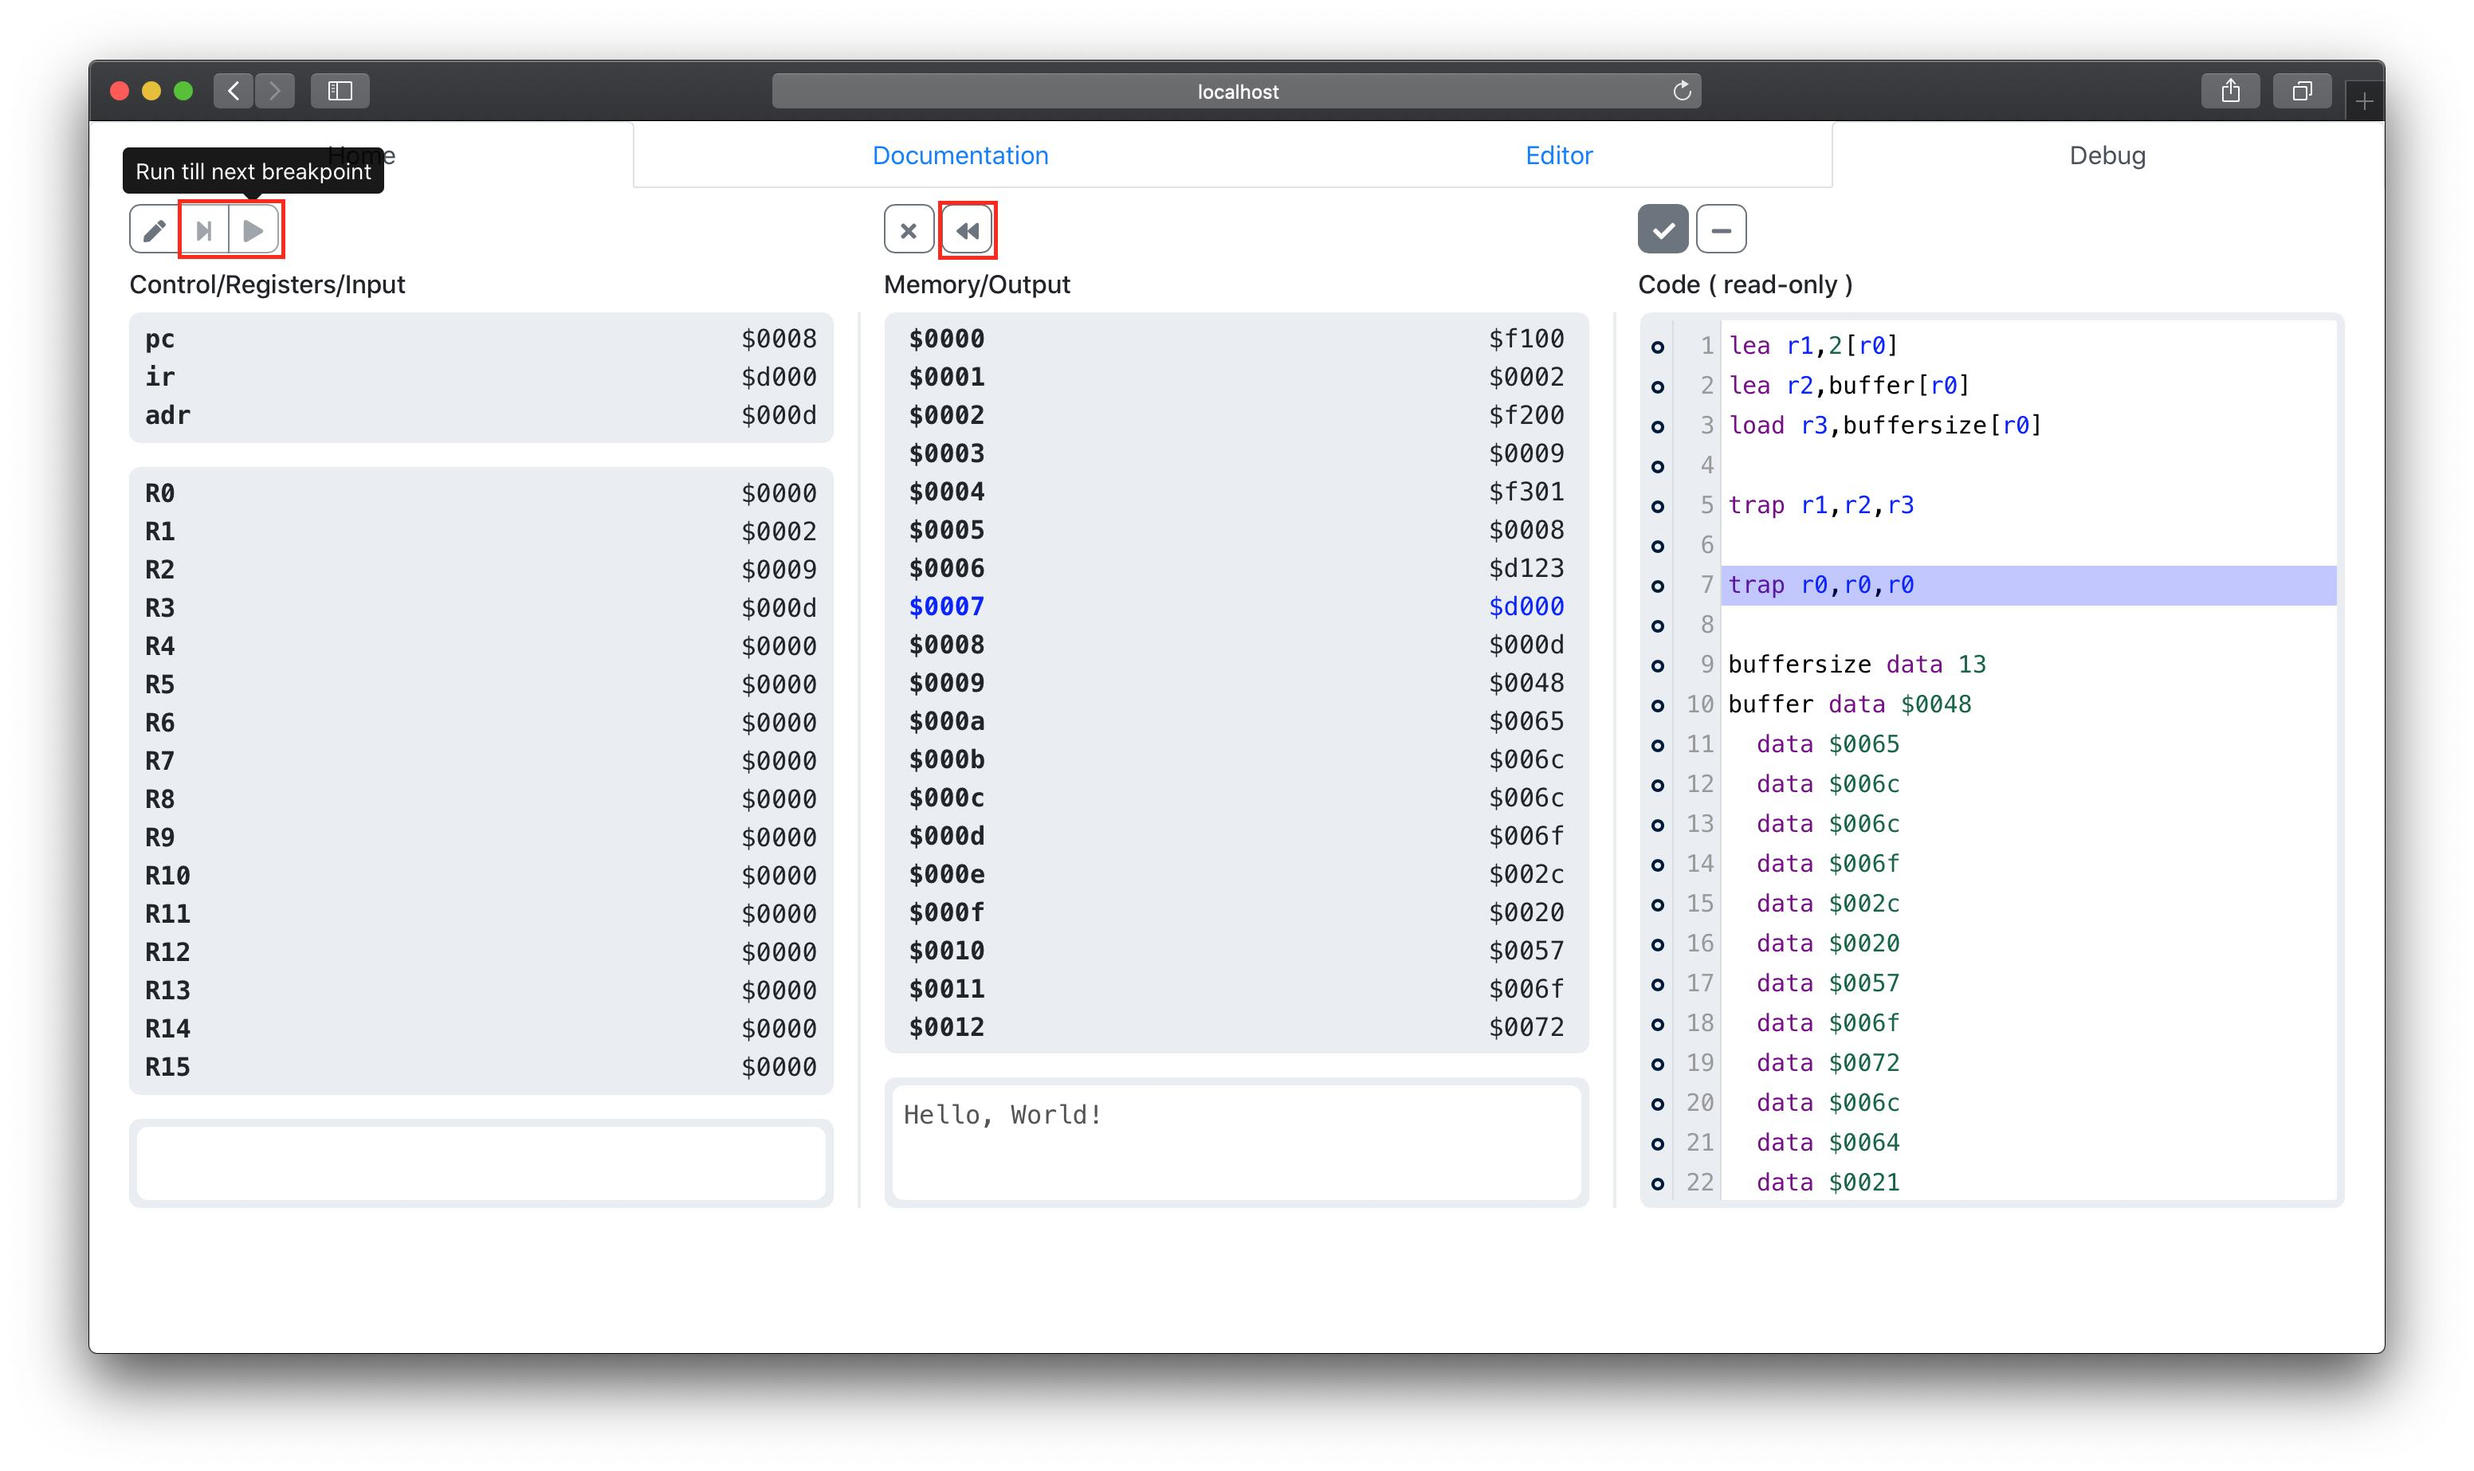
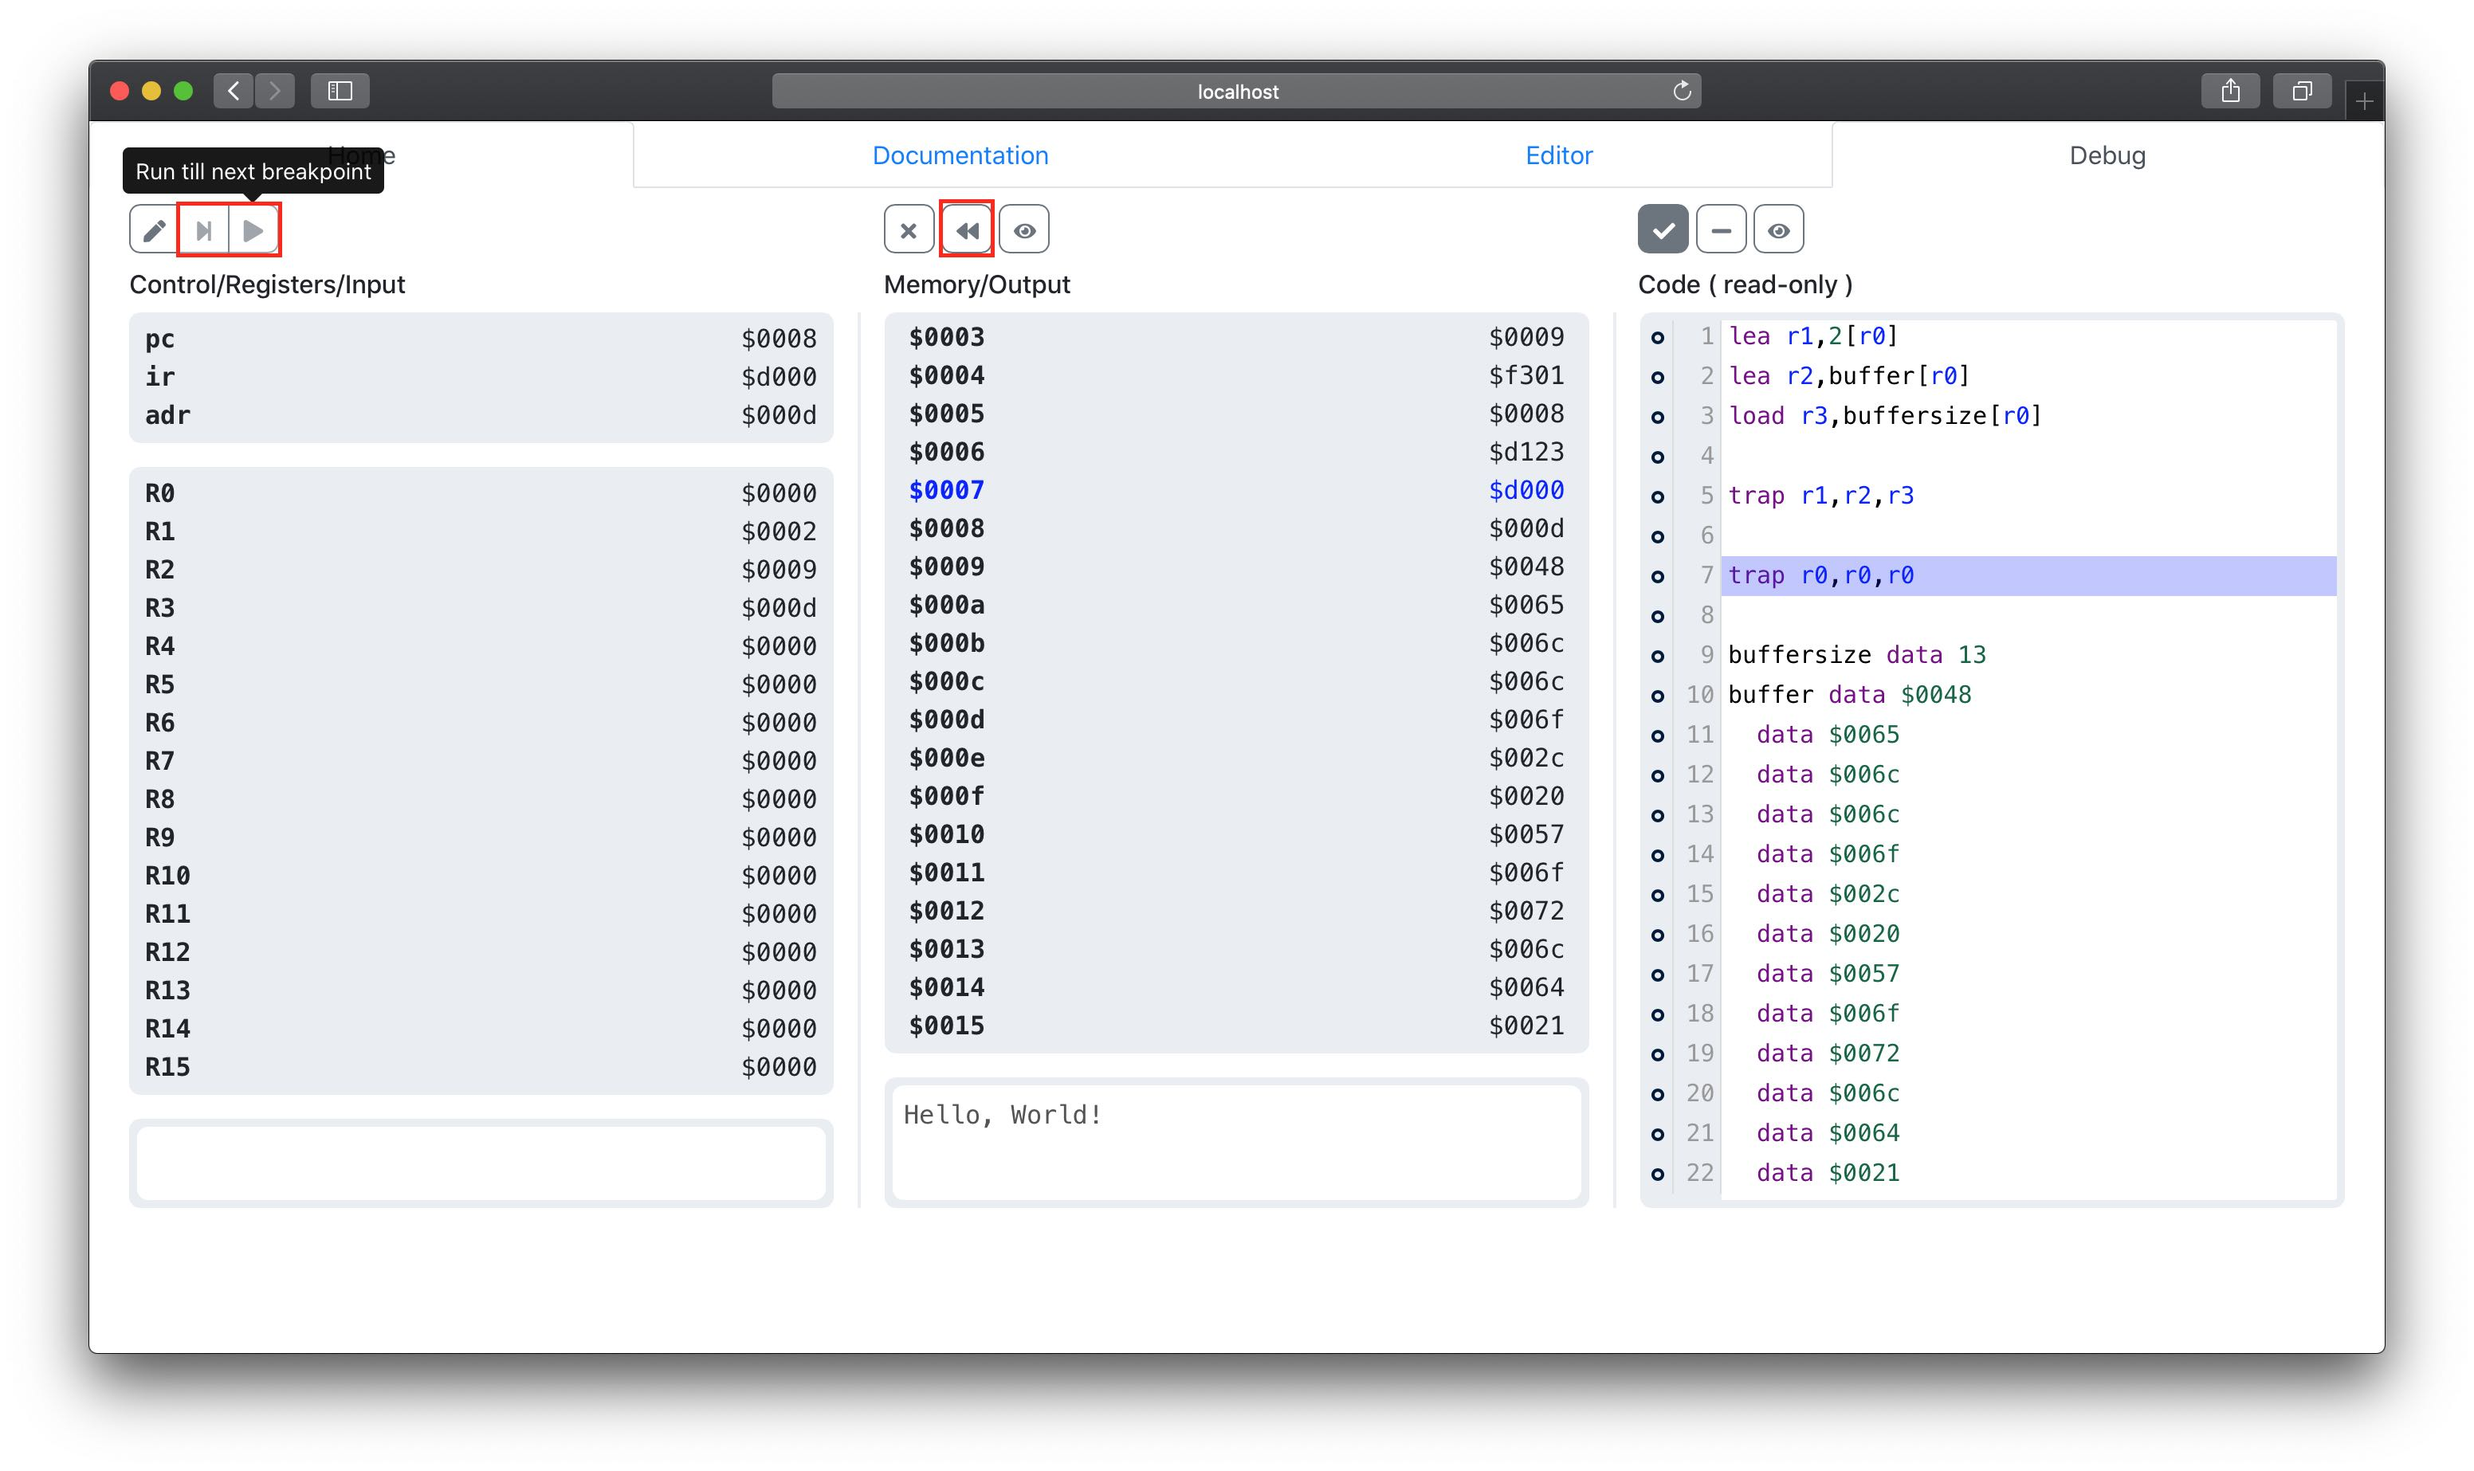
made it by default that execution is followed in memory and code chunk. made following execution optional. updated debugging images to show new buttons. added docs for new buttons. readme updated

diff --git a/src/components/ProgramDebugView.js b/src/components/ProgramDebugView.js
@@ -4,7 +4,7 @@ import 'codemirror/lib/codemirror.css';
 import './ProgramDebugView.css';
 
 import { Alert, Button, ButtonGroup, Col, Collapse, InputGroup, Modal, OverlayTrigger, Row, Tooltip } from 'react-bootstrap';
-import { FaBackward, FaCheck, FaMinus, FaPen, FaPlay, FaStepForward, FaTimes } from 'react-icons/fa';
+import { FaBackward, FaCheck, FaEye, FaEyeSlash, FaMinus, FaPen, FaPlay, FaStepForward, FaTimes } from 'react-icons/fa';
 import CodeMirror from 'react-codemirror';
 
 import * as Emulator from './utils/Emulator';
@@ -63,6 +63,12 @@ export default class ProgramDebugView extends React.Component {
       // special methods for debugging
       lastLine : 0,
       activeLine : 0,
+
+      lastLineScrollPosition : 0,
+      lastLineScrollPositionMemory : 0,
+
+      updateScrollPositionCode : true,
+      updateScrollPositionMemory : true,
 
       breakpointsMachineCode : [],
 
@@ -257,6 +263,16 @@ export default class ProgramDebugView extends React.Component {
     if ( codeAreaWrapper ) {
       codeAreaWrapper.style.height = ( 25 * ( lines.length ) ) + 8 + 'px';
 
+      if ( this.state.updateScrollPositionCode ) {
+        var codeAreaParent = document.getElementById( 'code-area-viewing' );
+        codeAreaParent.scrollTo( 0, this.state.lastLineScrollPosition );
+      }
+
+      if ( this.state.updateScrollPositionMemory ) {
+        var memoryColumn = document.getElementById( 'memory-column-big' );
+        memoryColumn.scrollTo( 0, this.state.lastLineScrollPositionMemory );
+      }
+
       for ( var i = 0; i < lines.length; i++ ) {
         var yOffset = 25 * ( i + 0.75 );
         var styleTop = yOffset + 3 +'px';
@@ -274,7 +290,8 @@ export default class ProgramDebugView extends React.Component {
             id={id} 
             className={className} 
             style={{top : styleTop}} 
-            onClick={this.breakpointOnClick}/>
+            onClick={this.breakpointOnClick}
+          />
         );
       }
       return breakpoints;
@@ -400,7 +417,11 @@ export default class ProgramDebugView extends React.Component {
       lineNoWidth = ( lineNoWidth + 25 ) + 'px'; //25 because 16 for breakpoint column, 8 for number padding and 1 for number column border
       
       return(
-        <div style={{marginTop : heightOfOverlay, marginLeft : lineNoWidth}} className='line-overlay active'/>
+        <div 
+          style={{marginTop : heightOfOverlay, marginLeft : lineNoWidth}} 
+          className='line-overlay active'
+          id='line-overlay-active'
+        />
       );
     }
   }
@@ -421,12 +442,33 @@ export default class ProgramDebugView extends React.Component {
         lineNoWidth = ( ( lineNoWidthLength * 7 ) + 7 );
       }
 
-      lineNoWidth = ( lineNoWidth + 25 ) + 'px'; //25 because 16 for breakpoint column, 8 for number padding and 1 for number column border
+      lineNoWidth = ( lineNoWidth + 25 ) + 'px'; // 25 because 16 for breakpoint column, 8 for number padding and 1 for number column border
 
       return(
-        <div style={{marginTop : heightOfOverlay, marginLeft : lineNoWidth}} className='line-overlay last'/>
+        <div 
+          style={{marginTop : heightOfOverlay, marginLeft : lineNoWidth}} 
+          className='line-overlay last' 
+          id='line-overlay-last'
+        />
       );
     }
+  }
+
+  setLastLineScrollPosition( lastLine ) {
+    var lastLineInCode = this.state.memoryToLine[ lastLine ];
+
+    const heightOfOverlay = lastLineInCode * 25;
+
+    this.setState( { lastLineScrollPosition : heightOfOverlay } );
+    this.setState( { lastLineScrollPositionMemory : lastLine * 24 } );
+  }
+
+  toggleFollowCode = e => {
+    this.setState( { updateScrollPositionCode : !( this.state.updateScrollPositionCode ) } )
+  }
+
+  toggleFollowMemory = e => {
+    this.setState( { updateScrollPositionMemory : !( this.state.updateScrollPositionMemory ) } )
   }
 
 // COLLAPSE CALLBACK METHOD
@@ -686,6 +728,8 @@ export default class ProgramDebugView extends React.Component {
         }
       }
 
+      this.setLastLineScrollPosition( lastRanLine );
+
       this.setState( { 
         cpuControl : localControl, 
         registers : localRegisters, 
@@ -723,6 +767,8 @@ export default class ProgramDebugView extends React.Component {
       // if ran out of commands
       if ( !( Object.keys( localMemory ).includes( String( localControl['pc'] ) ) ) ) ran['halted'] = true;
 
+      this.setLastLineScrollPosition( this.state.activeLine );
+
       this.setState( { 
         cpuControl : localControl, 
         registers : localRegisters, 
@@ -742,6 +788,8 @@ export default class ProgramDebugView extends React.Component {
 
   resetDebug = button => {
     this.resetCPUandMemory();
+
+    this.setLastLineScrollPosition( 0 );
 
     this.setState( { 
       memory : Emulator.setMemory( this.state.machineCode ),
@@ -897,6 +945,23 @@ export default class ProgramDebugView extends React.Component {
                   <FaBackward/>
                 </Button>
               </OverlayTrigger>
+              {' '}
+              <OverlayTrigger
+                key={`follow-memory-tooltip`}
+                placement={'top'}
+                overlay={
+                  <Tooltip>
+                    {`Follow memory execution`}
+                  </Tooltip>
+                }>
+                <Button variant='outline-secondary' size='sm' onClick={this.toggleFollowMemory}>
+                  { this.state.updateScrollPositionMemory ?
+                    <FaEye/>
+                  :
+                    <FaEyeSlash/>
+                  }
+                </Button>
+              </OverlayTrigger>
             </Col>
             <Col>
               <OverlayTrigger
@@ -923,6 +988,23 @@ export default class ProgramDebugView extends React.Component {
                 }>
                 <Button variant='outline-secondary' size='sm' onClick={this.toggleCodeChunk} active={!(this.state.showCodeChunk)}>
                   <FaMinus/>
+                </Button>
+              </OverlayTrigger>
+              {' '}
+              <OverlayTrigger
+                key={`follow-code-tooltip`}
+                placement={'top'}
+                overlay={
+                  <Tooltip>
+                    {`Follow code execution`}
+                  </Tooltip>
+                }>
+                <Button variant='outline-secondary' size='sm' onClick={this.toggleFollowCode}>
+                  { this.state.updateScrollPositionCode ?
+                    <FaEye/>
+                  :
+                    <FaEyeSlash/>
+                  }
                 </Button>
               </OverlayTrigger>
             </Col>

diff --git a/src/components/DocumentationView.js b/src/components/DocumentationView.js
@@ -3,7 +3,7 @@ import React from 'react';
 import './DocumentationView.css';
 
 import { Button, Col, Collapse, Row, Table } from 'react-bootstrap';
-import { FaBackward, FaBug, FaCheck, FaChevronDown, FaChevronUp, FaDownload, FaHammer, FaMinus, FaPen, FaPlay, FaStepForward, FaTimes, FaUpload } from 'react-icons/fa';
+import { FaBackward, FaBug, FaCheck, FaChevronDown, FaChevronUp, FaDownload, FaEye, FaEyeSlash, FaHammer, FaMinus, FaPen, FaPlay, FaStepForward, FaTimes, FaUpload } from 'react-icons/fa';
 import Select from 'react-select';
 
 import * as Emulator from './utils/Emulator';
@@ -1992,6 +1992,12 @@ export default class DocumentationView extends React.Component {
                         This same <strong>format</strong> of highlighting is used to show the corresponding <strong>cells</strong> in <strong>memory</strong> are <strong>being</strong>/<strong>have</strong> been executed<br/>
                         
                         <br/>
+
+                        <strong>Executed lines</strong> and corresponding <strong>memory values</strong> are also by default <strong>followed</strong><br/>
+                        This functionality can be <strong>disabled</strong> by pressing the <FaEye/> icon to make it become a <FaEyeSlash/> icon<br/>
+                        There are options to <strong>toggle</strong> this <strong>following of execution</strong> for <strong>both memory</strong> and <strong>code</strong> by the <strong>different</strong> buttons above <strong>each column</strong><br/>
+
+                        <img style={{width : '100%', height : '100%'}} src={`${process.env.PUBLIC_URL}/docs/debugging11.jpg`} alt='Red box around follow memory and follow code buttons after code follow toggled'/><br/>
                         
                         A program can be <strong>stepped-through</strong> or <strong>run</strong> through up until it is <strong>halted</strong>. This is <strong>most commonly</strong> done with a <code>trap R0,R0,R0</code> instruction<br/>
                         <strong>After</strong> a program is <strong>halted</strong>, the buttons for running and stepping will become <strong>disabled</strong>. Also, the <span style={{color : 'green'}}><strong>green</strong></span> overlay will <strong>disappear</strong> as there will be <strong>no next</strong> line to <strong>execute</strong><br/>

diff --git a/README.md b/README.md
@@ -72,7 +72,7 @@ This will start the local React.js development server and should open a windown 
 * √ - Add double click back to output box
 * √ - Show code chunk of currently being executed program
 * √ - Display highlighting of lines being exectued in code chunk
-* Make the code debugger follow the line that was executed
+* √ - Make the code debugger follow the line that was executed
 * Highlighting for effected/used memory values and registers.
 
 5. Write Tests
